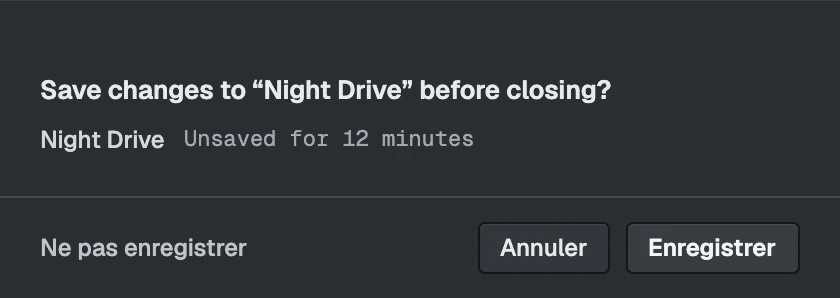
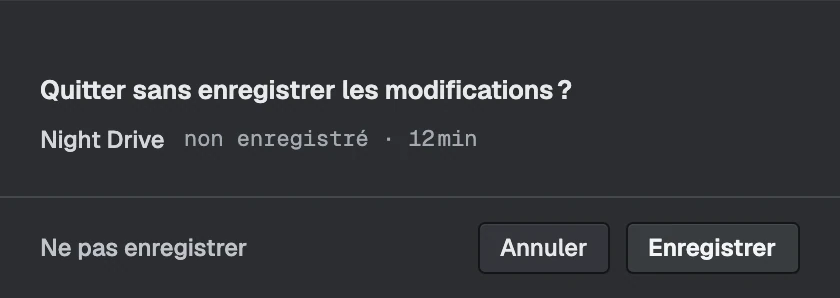
(docs) French: the real quit dialog, and typography in the generated shortcuts page
The unsaved scene used stale English texts of the dialog; it now takes the app's own (Loc.T), so the French shot shows the French dialog. scripts/shortcuts.mjs applies the French typography (narrow no-break space before : ; ? ! and inside « ») to the French page it writes, so a regeneration keeps what the hand-written pages have.

Changed region(s): [[0.031, 0.2718, 0.7429, 0.3624], [0.2167, 0.4228, 0.5881, 0.5134]]

diff --git a/shots/app/Scenes.cs b/shots/app/Scenes.cs
@@ -109,8 +109,10 @@ public sealed class Scenes
             case "export": Simple(shot, new ExportWindow(128, 32, 124)); break;
             case "connect": Connect(shot); break;
             case "unsaved":
-                Simple(shot, new SaveChangesWindow("Unsaved changes", "Save changes to “Night Drive” before closing?",
-                    "Night Drive", "Unsaved for 12 minutes"));
+                // The texts the app shows when quitting with unsaved edits (MainWindow.Recovery.cs).
+                Simple(shot, new SaveChangesWindow(Loc.T("main.recovery.unsaved_changes"),
+                    Loc.T("main.recovery.do_you_really_want_to"), "Night Drive",
+                    Loc.F("main.recovery.unsaved_changes_n", "12\u2009min")));
                 break;
             default: throw new ArgumentException($"unknown scene '{shot.Scene}'");
         }
